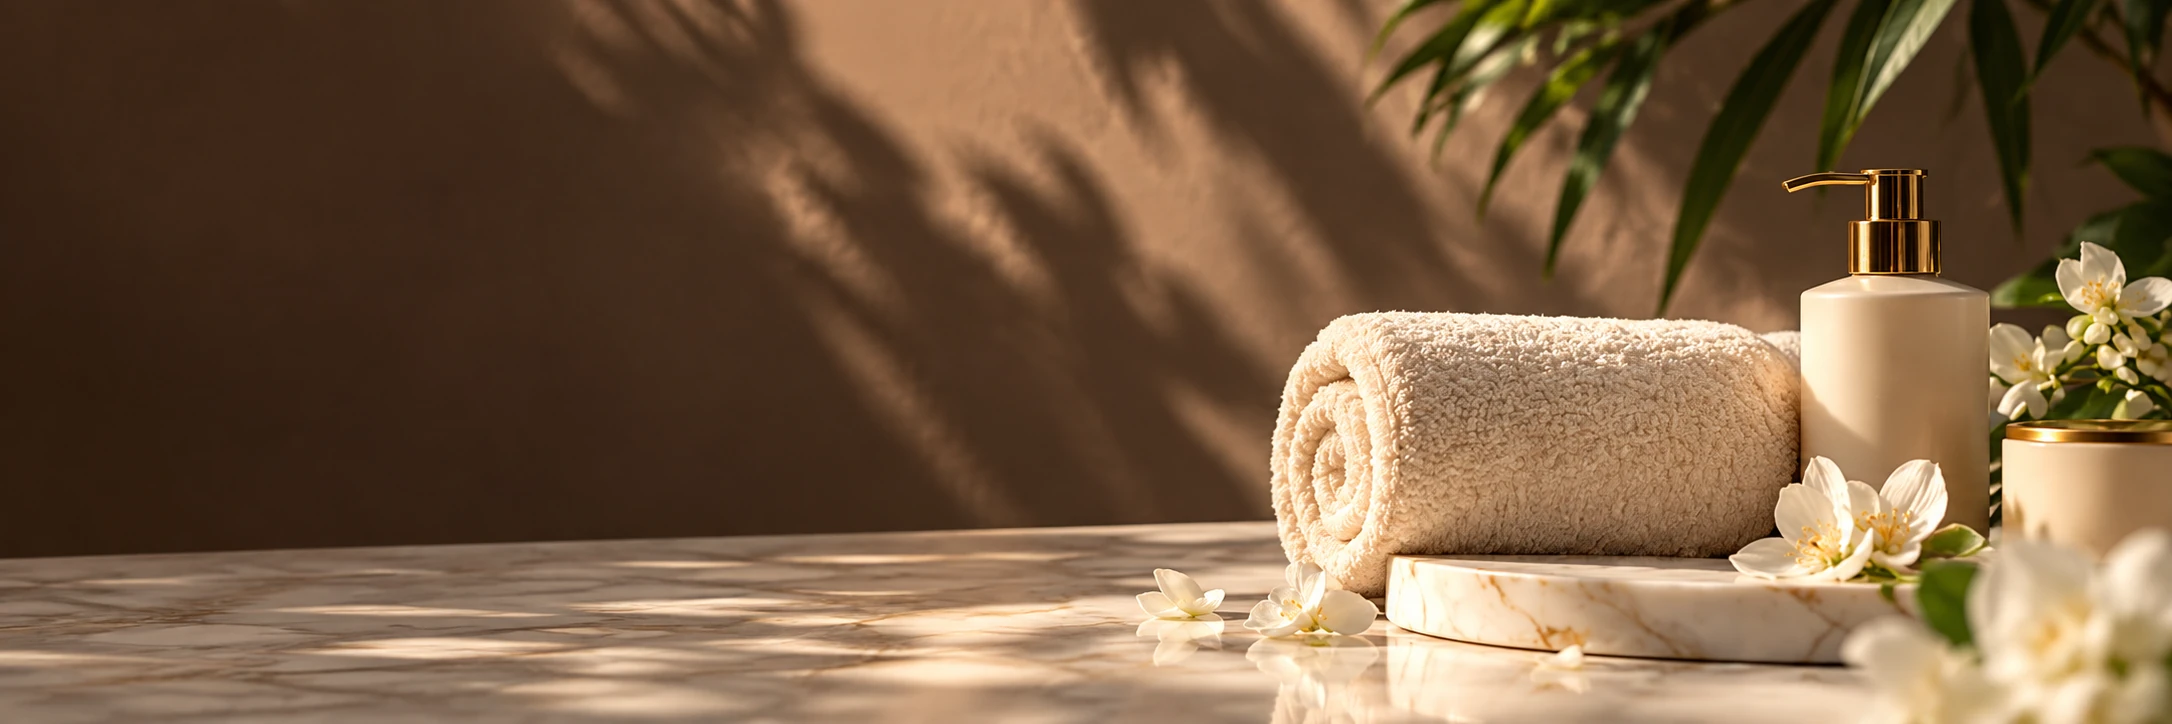
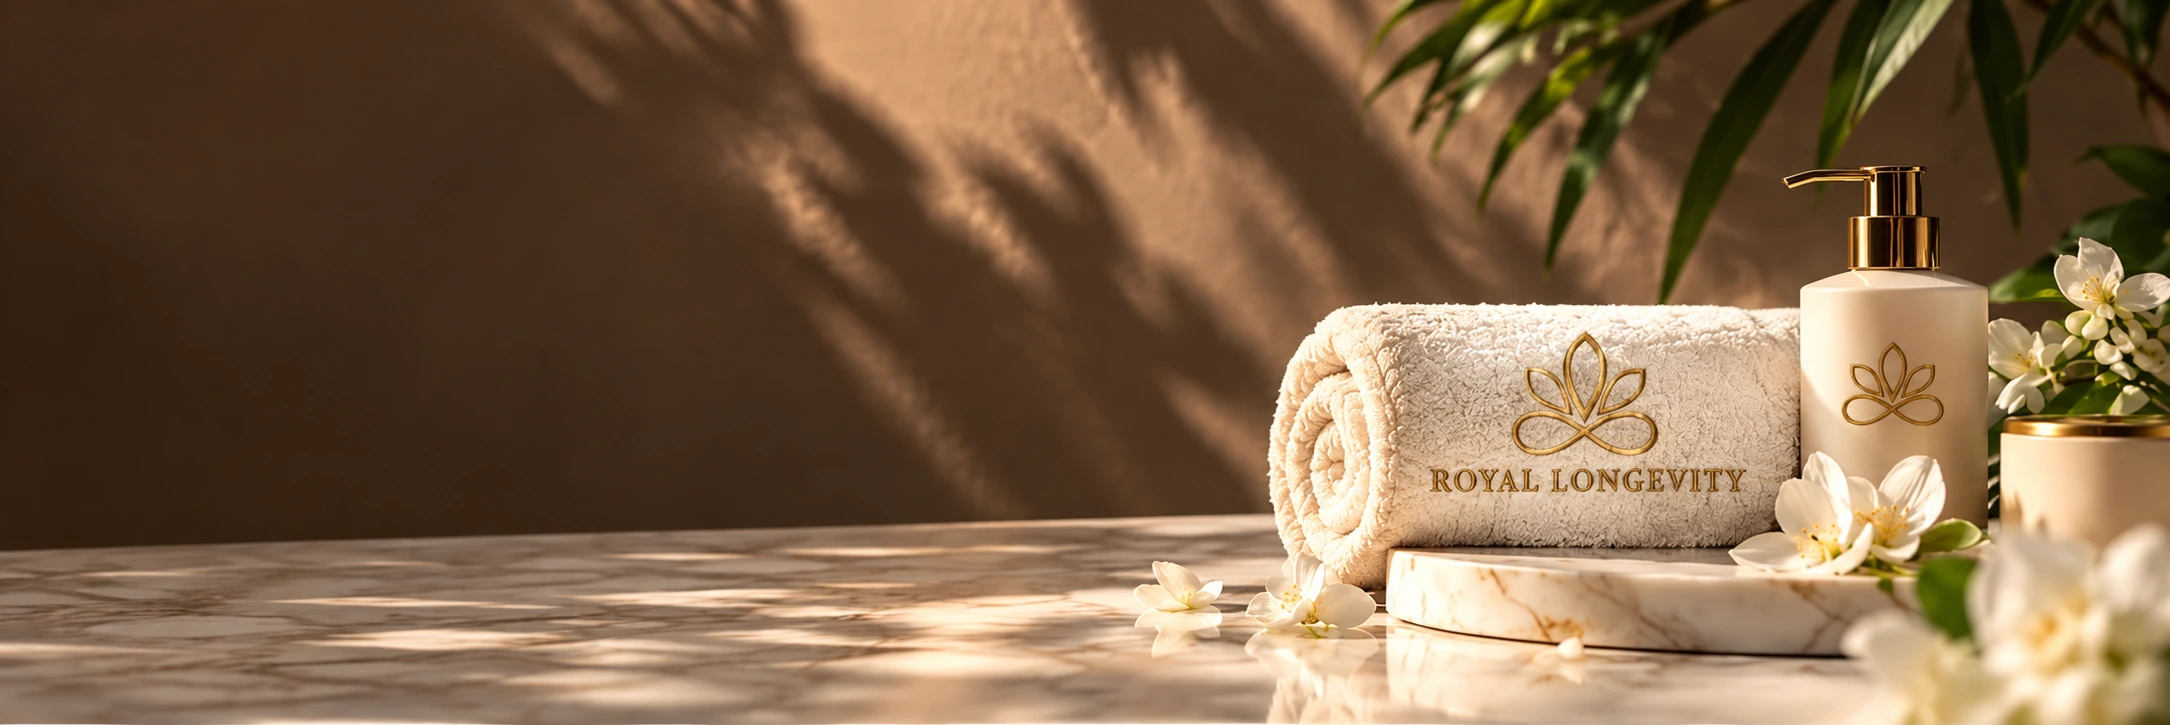
feat: updated branding on the image

diff --git a/components/booking-banner.tsx b/components/booking-banner.tsx
@@ -15,8 +15,8 @@ export function BookingBanner({
   const { props: desktop } = getImageProps({
     src: content.image.src,
     alt: content.image.alt,
-    width: 2172,
-    height: 724,
+    width: 2170,
+    height: 725,
     sizes,
   });
   const { props: mobile } = getImageProps({
@@ -32,27 +32,27 @@ export function BookingBanner({
       aria-labelledby="booking-banner-title"
       className="bg-white px-4 pb-16 min-[700px]:px-8 min-[700px]:pb-24"
     >
-      <div className="relative isolate mx-auto flex aspect-[2/3] min-h-[640px] max-w-[600px] flex-col overflow-hidden rounded-[24px] bg-espresso px-6 py-12 min-[700px]:rounded-[28px] lg:aspect-auto lg:min-h-[530px] lg:max-w-[1600px] lg:justify-center lg:px-12 lg:py-16 xl:px-16">
+      <div className="relative isolate mx-auto flex aspect-[2/3] min-h-[640px] max-w-[600px] flex-col overflow-hidden rounded-[24px] bg-espresso px-6 py-12 min-[700px]:rounded-[28px] lg:aspect-auto lg:min-h-[360px] lg:max-w-[1600px] lg:justify-center lg:px-12 lg:py-12 xl:min-h-[440px] xl:px-16 2xl:min-h-[530px]">
         <picture className="absolute inset-0 -z-20">
           <source
             media="(min-width: 1024px)"
             srcSet={desktop.srcSet}
             sizes={sizes}
-            width={2172}
-            height={724}
+            width={2170}
+            height={725}
           />
           {/* Next.js generates optimized sources; picture selects the composition without client JavaScript. */}
           <img
             {...mobile}
             alt={content.image.alt}
-            className="h-full w-full object-cover object-bottom lg:object-center lg:rtl:-scale-x-100"
+            className="h-full w-full object-cover object-bottom lg:object-center"
           />
         </picture>
         <div
           className="absolute inset-0 -z-10 bg-espresso/20"
           aria-hidden="true"
         />
-        <div className="flex w-full flex-col items-center text-center text-ivory lg:w-[56%] lg:items-start lg:text-start">
+        <div className="flex w-full flex-col items-center text-center text-ivory lg:w-[56%] lg:items-start lg:text-start lg:rtl:self-end">
           <p className="mb-5 flex items-center gap-2.5 text-sm">
             <span
               className="size-[5px] shrink-0 rounded-full bg-current"

diff --git a/data/booking-banner.ts b/data/booking-banner.ts
@@ -17,7 +17,7 @@ const content: Record<Language, BookingBannerContent> = {
     image: {
       src: "/assets/images/booking-banner-desktop.webp",
       mobileSrc: "/assets/images/booking-banner-mobile.webp",
-      alt: "An ivory towel, gold-pump lotion dispenser and white flowers on warm marble",
+      alt: "An ivory towel and lotion bottle with gold Royal Longevity branding beside white flowers on warm marble",
     },
   },
   ar: {
@@ -27,7 +27,7 @@ const content: Record<Language, BookingBannerContent> = {
     image: {
       src: "/assets/images/booking-banner-desktop.webp",
       mobileSrc: "/assets/images/booking-banner-mobile.webp",
-      alt: "منشفة عاجية وعبوة لوشن بمضخة ذهبية وزهور بيضاء على رخام دافئ",
+      alt: "منشفة عاجية وعبوة لوشن تحملان شعار رويال لونجيفيتي الذهبي بجوار زهور بيضاء على رخام دافئ",
     },
   },
 };

diff --git a/design/booking-banner.md b/design/booking-banner.md
@@ -1,11 +1,20 @@
 # Booking banner
 
-Generated with the built-in image generation tool using the owner-supplied banner as a reference. Full-bleed photography replaces the reference's baked-in white frame. Two optimized WebP assets are selected with Next.js getImageProps and a native picture element: portrait below 1024px, landscape from 1024px. Desktop photography is mirrored in RTL because it contains no text or logo. Mobile copy sits above the objects; desktop copy sits in the dark negative space.
+Branded edits generated with the built-in image tool, using the existing photographs plus the supplied gold icon and gold English wordmark as references. Source branding files remain unchanged.
 
-## Desktop prompt
+## Assets
 
-Use case: product-mockup. Create a photorealistic premium spa website banner using the supplied image as a visual reference for warm ivory towels, gold-pump ivory lotion bottle, white flowers, marble and soft botanical shadows. Landscape 3:1 composition, 2400x800 if possible. FULL BLEED photograph all the way to every edge: absolutely no white margins, no frame, no border, no rounded corners, no inset picture. Arrange a rolled ivory towel, bottle and white flowers on the RIGHTMOST third, with the towel and objects fully inside the scene. The LEFT 60% is quiet deep warm espresso-brown wall with subtle natural soft light, ample dark negative space for separately rendered ivory HTML heading and button. Lighting transitions naturally, no graphic gradients. Elegant realistic tactile photography matching the reference. No text, no logo, no watermark: leave towel plain rather than inventing brand marks. The website will supply all typography. Keep subject compact within right third, vertical center/lower half so cropping works. Generate only the image, no web mockup.
+- `public/assets/images/booking-banner-desktop.webp` — 2170 × 725, landscape.
+- `public/assets/images/booking-banner-mobile.webp` — 1024 × 1536, portrait.
+- Icon source: `branding/ROYAL LONGEVITY LOGO BOOK/ROYAL LONGEVITY LOGO ICON/PNG/GOLD/1000PX.png`.
+- Wordmark source: `branding/ROYAL LONGEVITY LOGO BOOK/ROYAL LONGEVITY LOGO TEXT/ENGLISH/SVG/ROYAL LONGEVITY ENGLISH GOLD.svg`.
 
-## Mobile prompt
+The gold branding appears as towel embroidery and bottle decoration. Native picture sources select portrait below 1024px and landscape above. Images are never mirrored because they contain branding. Arabic copy remains right-aligned within the left-side negative space on desktop, with centered copy above the products on mobile. The English lettering is part of the photographed product branding in both language versions.
 
-Use case: product-mockup. Generate a matching MOBILE portrait spa banner photograph, 1024x1536. Match the photograph just generated in this conversation: ivory rolled towel, ivory gold-pump lotion dispenser, white flowers on warm marble with soft botanical shadows, rich warm espresso background. Full bleed photography to all four edges, NO padding, white border, frame, rounded corners, text, logos or watermark. Critical composition: TOP 58 percent is quiet dark espresso wall with only extremely subtle soft shadows, empty for website heading and appointment button rendered later in HTML. Arrange the entire towel, bottle and flowers in BOTTOM 38 percent, with breathing room on both sides; bottle does not extend above bottom half. Premium realistic tactile warm lighting, objects naturally lit, top dark for readable ivory text. This is the vertical companion to a desktop spa banner, no mockup.
+## Desktop edit prompt
+
+Use case: compositing. Edit image 1, the existing wide spa banner. Images 2 and 3 are the EXACT supplied official Royal Longevity gold botanical/infinity icon and gold wordmark assets, use these exact designs, not a new logo. Add a tasteful clearly visible gold embroidered brand lockup to the front face of the rolled towel: exact icon centered above the exact wordmark ROYAL LONGEVITY, preserving serif letterforms and icon geometry. Place on towel's broad front rectangular face, not the spiral end, natural textile embroidery with restrained gold sheen, similar to branded luxury spa towels. Can add small matching gold icon to front of bottle if elegant. No other words. Preserve scene, object placement, warm lighting, background negative space LEFT 60%, full-bleed edges, all details otherwise unchanged. Output landscape 3:1 high resolution 2172x724 or 2400x800, no borders. Reference previews were supplied in-memory.
+
+## Mobile edit prompt
+
+Use case: compositing. Edit image 1, existing portrait spa banner, using supplied EXACT official gold botanical infinity emblem in image 2 and gold ROYAL LONGEVITY serif wordmark in image 3. Add the gold emblem above ROYAL LONGEVITY on the front of the lotion bottle, clean refined gold foil luxury packaging. Add matching emblem and name as natural gold embroidery on the towel's broad front face, modestly turn rolled towel if necessary for visible branding but keep objects in bottom 40 percent. Preserve exact brand icon geometry and serif wordmark design, exact spelling ROYAL LONGEVITY, no other text. Preserve composition, dark empty upper 55 percent for HTML text, lighting, marble, flowers, full bleed and portrait 2:3 ratio. Output 1024x1536. No borders, margins or page mockup. Only change branding and minimal towel orientation needed to show it. Reference previews supplied in memory.
